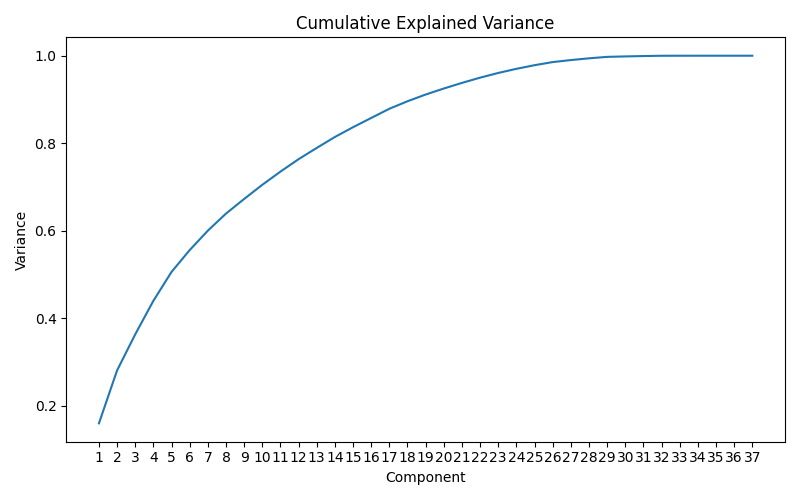
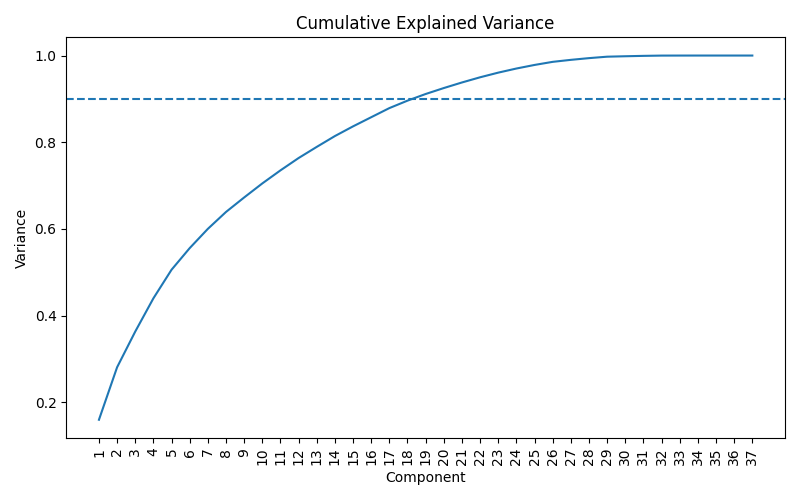
refactor: refactor pca for add a line

diff --git a/src/build_pca_feature_matrix.py b/src/build_pca_feature_matrix.py
@@ -16,7 +16,7 @@ from statistics import variance
 
 BASE_DIR = Path(__file__).resolve().parents[1]
 PROCESSED_DIR = BASE_DIR / "data" / "processed"
-FEATURES_DIR = PROCESSED_DIR / "features"
+FEATURES_DIR = BASE_DIR / "data" / "features"
 ARTIFACTS_DIR = BASE_DIR / "artifacts"
 REPORTS_DIR = BASE_DIR / "reports"
 
@@ -37,7 +37,7 @@ from sklearn.preprocessing import OneHotEncoder, StandardScaler
 
 PLAYER_SEASON_PATH = PROCESSED_DIR / "stats" / "player_season_stats_cleaned.parquet"
 PLAYERS_PATH = PROCESSED_DIR / "core" / "players_cleaned.parquet"
-FEATURE_MATRIX_PATH = PROCESSED_DIR / "player_season_feature_matrix.csv"
+FEATURE_MATRIX_PATH = FEATURES_DIR / "player_season_feature_matrix.csv"
 PCA_TRANSFORMED_PATH = ARTIFACTS_DIR / "pca_player_season_2d.csv"
 PCA_VARIANCE_PATH = ARTIFACTS_DIR / "pca_explained_variance.csv"
 PCA_LOADINGS_PATH = ARTIFACTS_DIR / "pca_component_loadings.csv"
@@ -315,6 +315,8 @@ def plot_variance(variance: pd.DataFrame) -> None:
     variance["cumulative_explained_variance"]
 )
     plt.xticks(range(1, len(variance) + 1))
+    plt.axhline(y=0.9, linestyle="--")
+    plt.xticks(rotation=90)
 
     plt.title("Cumulative Explained Variance")
     plt.xlabel("Component")
